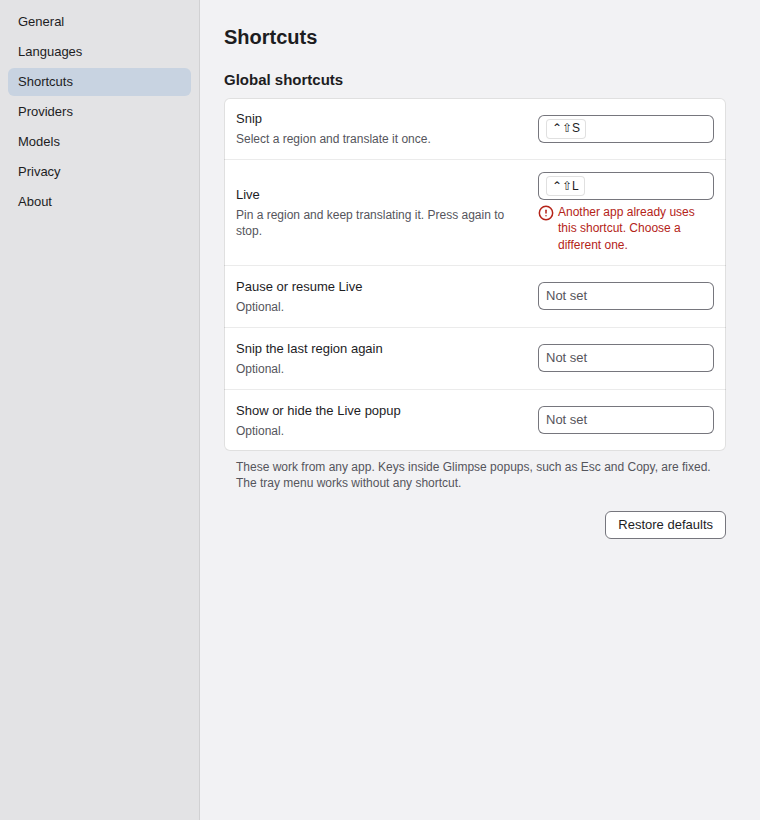
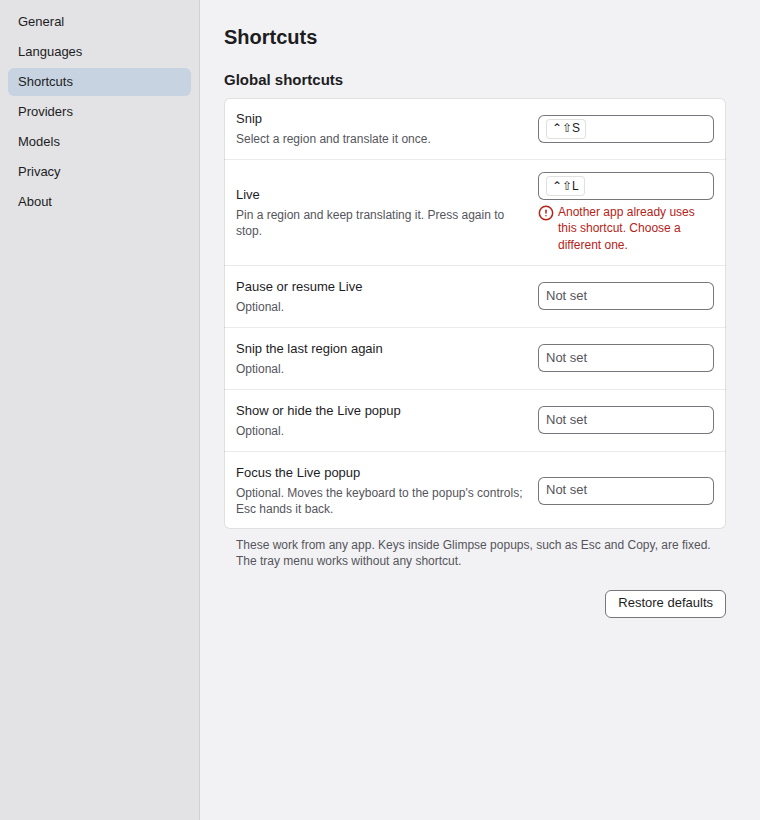
GLIM-130: optional global shortcuts for Live pause/resume, show/hide and focus popup
Adds the focusLivePopup binding (unbound by default, no migration: a new
field with a default) and wires pauseLive, toggleLivePopup and
focusLivePopup to the tray's live.* commands through liveHotkeyHandlers;
Settings > Shortcuts lists the new action.

Changed region(s): [[0.3026, 0.5488, 0.9382, 0.7012], [0.8171, 0.7317, 0.9382, 0.7622]]

diff --git a/app/test/live-hotkeys.test.ts b/app/test/live-hotkeys.test.ts
@@ -1,0 +1,67 @@
+// GLIM-130: optional global shortcuts for Live (pause / resume, show / hide the popup, focus
+// the popup). Unbound by default; once bound in Settings › Shortcuts they register through the
+// hotkey service and dispatch the same commands as the tray.
+import { describe, expect, test } from "bun:test";
+import { DEFAULT_HOTKEYS, type HotkeyBindings, nullLogger } from "@glimpse/core";
+import { type HotkeyBackend, HotkeyService } from "../src/bun/services/hotkeys.ts";
+import { HOTKEY_ACTIONS, liveHotkeyHandlers, ServiceHotkeyRegistrar } from "../src/bun/services/hotkeys-port.ts";
+
+describe("Live shortcuts (GLIM-130)", () => {
+	test("unbound by default on both OSes", () => {
+		for (const os of ["windows", "macos"] as const) {
+			const d = DEFAULT_HOTKEYS[os];
+			expect([d.pauseLive, d.toggleLivePopup, d.focusLivePopup]).toEqual([null, null, null]);
+		}
+		expect(HOTKEY_ACTIONS).toContain("focusLivePopup");
+	});
+
+	test("handlers dispatch the tray's commands; pause toggles; nothing while no area is pinned", () => {
+		const sent: string[] = [];
+		let state = { active: false, paused: false };
+		const h = liveHotkeyHandlers(
+			(c) => sent.push(c),
+			() => state,
+		);
+		h.pauseLive?.();
+		h.toggleLivePopup?.();
+		h.focusLivePopup?.();
+		expect(sent).toEqual([]);
+		state = { active: true, paused: false };
+		h.pauseLive?.();
+		state = { active: true, paused: true };
+		h.pauseLive?.();
+		h.toggleLivePopup?.();
+		h.focusLivePopup?.();
+		expect(sent).toEqual(["live.pause", "live.resume", "live.popup.toggle", "live.popup.focus"]);
+	});
+
+	test("a bound Live shortcut registers with the backend and reports ready", async () => {
+		const registered: string[] = [];
+		const backend: HotkeyBackend = {
+			name: "fake",
+			register: (combo) => {
+				registered.push(combo);
+				return { ok: true, detail: "ok" };
+			},
+			unregister: () => {},
+			dispose: () => {},
+		};
+		const service = new HotkeyService(backend, nullLogger);
+		const registrar = new ServiceHotkeyRegistrar(service, {
+			...liveHotkeyHandlers(
+				() => {},
+				() => ({ active: true, paused: false }),
+			),
+		});
+		const bindings: HotkeyBindings = {
+			...DEFAULT_HOTKEYS.windows,
+			snip: null,
+			live: null,
+			focusLivePopup: "Alt+Shift+F",
+		};
+		const status = await registrar.apply(bindings);
+		expect(status.focusLivePopup).toEqual({ state: "ready" });
+		expect(status.pauseLive).toEqual({ state: "unbound" });
+		expect(registered).toEqual(["Alt+Shift+F"]);
+	});
+});

diff --git a/app/src/bun/services/hotkeys-port.ts b/app/src/bun/services/hotkeys-port.ts
@@ -11,7 +11,14 @@ import type { HotkeyAction, HotkeyBindings } from "@glimpse/core";
 import type { HotkeyRegistration, HotkeyStatus } from "../../shared/settings-rpc.ts";
 import type { HotkeyService, HotkeyStatus as ServiceStatus } from "./hotkeys.ts";
 
-export const HOTKEY_ACTIONS: readonly HotkeyAction[] = ["snip", "live", "pauseLive", "resnip", "toggleLivePopup"];
+export const HOTKEY_ACTIONS: readonly HotkeyAction[] = [
+	"snip",
+	"live",
+	"pauseLive",
+	"resnip",
+	"toggleLivePopup",
+	"focusLivePopup",
+];
 
 export interface HotkeyRegistrar {
 	/** What the OS said about each action at the last `apply`. */
@@ -63,6 +70,7 @@ export function registrationStatus(
 		pauseLive: one("pauseLive"),
 		resnip: one("resnip"),
 		toggleLivePopup: one("toggleLivePopup"),
+		focusLivePopup: one("focusLivePopup"),
 	};
 }
 
@@ -75,7 +83,7 @@ export class ServiceHotkeyRegistrar implements HotkeyRegistrar {
 		private readonly handlers: HotkeyHandlers,
 	) {
 		this.#status = registrationStatus(
-			{ snip: null, live: null, pauseLive: null, resnip: null, toggleLivePopup: null },
+			{ snip: null, live: null, pauseLive: null, resnip: null, toggleLivePopup: null, focusLivePopup: null },
 			[],
 			handlers,
 		);
@@ -96,4 +104,23 @@ export class ServiceHotkeyRegistrar implements HotkeyRegistrar {
 		this.#listeners.add(listener);
 		return () => this.#listeners.delete(listener);
 	}
+}
+
+/**
+ * GLIM-130: handlers for the optional Live shortcuts (unbound by default; live-popup.md §6.3,
+ * GLIM-94 question 12). They go through the command bus like the tray: pause / resume toggles
+ * by the session's state, and every one does nothing while no area is pinned.
+ */
+export function liveHotkeyHandlers(
+	dispatch: (command: "live.pause" | "live.resume" | "live.popup.toggle" | "live.popup.focus") => void,
+	live: () => { readonly active: boolean; readonly paused: boolean },
+): Pick<HotkeyHandlers, "pauseLive" | "toggleLivePopup" | "focusLivePopup"> {
+	const whenActive = (run: () => void) => () => {
+		if (live().active) run();
+	};
+	return {
+		pauseLive: whenActive(() => dispatch(live().paused ? "live.resume" : "live.pause")),
+		toggleLivePopup: whenActive(() => dispatch("live.popup.toggle")),
+		focusLivePopup: whenActive(() => dispatch("live.popup.focus")),
+	};
 }

diff --git a/packages/core/src/settings/hotkeys.ts b/packages/core/src/settings/hotkeys.ts
@@ -116,21 +116,37 @@ export const hotkeySchema = (): Schema<Hotkey> =>
 		(s) => canonicalHotkey(s) ?? s,
 	);
 
-/** Global actions. Only Snip and Live are bound by default (GLIM-23). */
+/** Global actions. Only Snip and Live are bound by default (GLIM-23); the Live extras are optional (GLIM-130). */
 export interface HotkeyBindings {
 	readonly snip: Hotkey | null;
 	readonly live: Hotkey | null;
 	readonly pauseLive: Hotkey | null;
 	readonly resnip: Hotkey | null;
 	readonly toggleLivePopup: Hotkey | null;
+	/** GLIM-130: move keyboard focus to the Live popup (keyboard and screen-reader users). */
+	readonly focusLivePopup: Hotkey | null;
 }
 
 export type HotkeyAction = keyof HotkeyBindings;
 
 /** GLIM-23 defaults. Same letters on both OSes, least-conflicting modifiers per OS. */
 export const DEFAULT_HOTKEYS: { readonly windows: HotkeyBindings; readonly macos: HotkeyBindings } = {
-	windows: { snip: "Alt+Shift+S", live: "Alt+Shift+L", pauseLive: null, resnip: null, toggleLivePopup: null },
-	macos: { snip: "Ctrl+Shift+S", live: "Ctrl+Shift+L", pauseLive: null, resnip: null, toggleLivePopup: null },
+	windows: {
+		snip: "Alt+Shift+S",
+		live: "Alt+Shift+L",
+		pauseLive: null,
+		resnip: null,
+		toggleLivePopup: null,
+		focusLivePopup: null,
+	},
+	macos: {
+		snip: "Ctrl+Shift+S",
+		live: "Ctrl+Shift+L",
+		pauseLive: null,
+		resnip: null,
+		toggleLivePopup: null,
+		focusLivePopup: null,
+	},
 };
 
 /**
@@ -145,6 +161,7 @@ export function hotkeyBindingsSchema(defaults: HotkeyBindings): Schema<HotkeyBin
 		pauseLive: withDefault(nullable(hotkeySchema()), defaults.pauseLive),
 		resnip: withDefault(nullable(hotkeySchema()), defaults.resnip),
 		toggleLivePopup: withDefault(nullable(hotkeySchema()), defaults.toggleLivePopup),
+		focusLivePopup: withDefault(nullable(hotkeySchema()), defaults.focusLivePopup),
 	});
 	return {
 		parse(input, ctx) {

diff --git a/app/src/bun/index.ts b/app/src/bun/index.ts
@@ -30,7 +30,7 @@ import { buildDiagnostics } from "./services/diagnostics.ts";
 import { HotkeyService } from "./services/hotkeys.ts";
 import { CarbonHotkeyBackend } from "./services/hotkeys-carbon.ts";
 import { ElectrobunHotkeyBackend } from "./services/hotkeys-electrobun.ts";
-import { ServiceHotkeyRegistrar } from "./services/hotkeys-port.ts";
+import { liveHotkeyHandlers, ServiceHotkeyRegistrar } from "./services/hotkeys-port.ts";
 import { LiveService } from "./services/live/live-service.ts";
 import { PinnedFrame } from "./services/live/pinned-frame.ts";
 import { createAppLogger } from "./services/log.ts";
@@ -209,6 +209,11 @@ appSettings.subscribe((next, previous) => {
 const hotkeyRegistrar = new ServiceHotkeyRegistrar(hotkeys, {
 	snip: () => void commands.dispatch("snip.start", "hotkey"),
 	live: () => void commands.dispatch("live.start", "hotkey"),
+	// GLIM-130: optional, unbound by default (Settings › Shortcuts). `live` is declared below.
+	...liveHotkeyHandlers(
+		(command) => void commands.dispatch(command, "hotkey"),
+		() => ({ active: live.active, paused: live.status === "paused" || live.status === "error" }),
+	),
 });
 
 // Screen Recording permission (GLIM-45): macOS only. Snip and Live open the screen-access

diff --git a/packages/core/test/settings.test.ts b/packages/core/test/settings.test.ts
@@ -37,7 +37,14 @@ describe("settings defaults", () => {
 	test("first-run settings", () => {
 		expect(defaultSettings(env)).toEqual({
 			language: { target: languageCode("de"), sources: [] },
-			hotkeys: { snip: "Alt+Shift+S", live: "Alt+Shift+L", pauseLive: null, resnip: null, toggleLivePopup: null },
+			hotkeys: {
+				snip: "Alt+Shift+S",
+				live: "Alt+Shift+L",
+				pauseLive: null,
+				resnip: null,
+				toggleLivePopup: null,
+				focusLivePopup: null,
+			},
 			providers: { ocr: "paddleocr", translation: ["bergamot", "small100"], options: {} },
 			appearance: { theme: "system", motion: "system" },
 			snip: { copyAfterSnip: true, showOriginalUnder: false, alwaysShowLanguages: false },
@@ -126,6 +133,7 @@ describe("hotkeys", () => {
 			pauseLive: null,
 			resnip: "Ctrl+Alt+R",
 			toggleLivePopup: null,
+			focusLivePopup: null,
 		});
 		expect(issues.map((i) => i.path)).toEqual(["hotkeys.snip", "hotkeys.pauseLive"]);
 	});

diff --git a/app/src/views/settings/panes/ShortcutsPane.tsx b/app/src/views/settings/panes/ShortcutsPane.tsx
@@ -20,6 +20,11 @@ const ACTIONS: readonly { action: HotkeyAction; label: string; description: stri
 	{ action: "pauseLive", label: "Pause or resume Live", description: "Optional." },
 	{ action: "resnip", label: "Snip the last region again", description: "Optional." },
 	{ action: "toggleLivePopup", label: "Show or hide the Live popup", description: "Optional." },
+	{
+		action: "focusLivePopup",
+		label: "Focus the Live popup",
+		description: "Optional. Moves the keyboard to the popup's controls; Esc hands it back.",
+	},
 ];
 
 const labelOf = (a: HotkeyAction) => ACTIONS.find((x) => x.action === a)?.label ?? a;

diff --git a/app/test/picker-controller.test.ts b/app/test/picker-controller.test.ts
@@ -331,7 +331,14 @@ describe("HotkeyService", () => {
 			this.disposed = true;
 		}
 	}
-	const bindings = { snip: "Alt+Shift+S", live: "Alt+Shift+L", pauseLive: null, resnip: null, toggleLivePopup: null };
+	const bindings = {
+		snip: "Alt+Shift+S",
+		live: "Alt+Shift+L",
+		pauseLive: null,
+		resnip: null,
+		toggleLivePopup: null,
+		focusLivePopup: null,
+	};
 
 	test("registers bound actions, reports conflicts without rebinding, fires handlers", () => {
 		const backend = new FakeBackend();

diff --git a/app/src/views/settings-preview/fake-client.ts b/app/src/views/settings-preview/fake-client.ts
@@ -79,6 +79,7 @@ export function fakeSettingsClient(opts: PreviewOptions): SettingsClient {
 			pauseLive: one("pauseLive"),
 			resnip: one("resnip"),
 			toggleLivePopup: one("toggleLivePopup"),
+			focusLivePopup: one("focusLivePopup"),
 		};
 	};
 	let hotkeys = statusFor(settings.hotkeys);

diff --git a/app/src/views/onboarding-preview/fake-client.ts b/app/src/views/onboarding-preview/fake-client.ts
@@ -131,6 +131,7 @@ export function fakeOnboardingClient(opts: PreviewOptions): OnboardingClient {
 		pauseLive: { state: "unbound" },
 		resnip: { state: "unbound" },
 		toggleLivePopup: { state: "unbound" },
+		focusLivePopup: { state: "unbound" },
 	});
 
 	const setup = (): SetupState => ({

diff --git a/app/src/bun/windows/settings-handlers.ts b/app/src/bun/windows/settings-handlers.ts
@@ -74,6 +74,7 @@ const ACTION_NAMES: Record<HotkeyAction, string> = {
 	pauseLive: "Pause or resume Live",
 	resnip: "Snip the last region again",
 	toggleLivePopup: "Show or hide the Live popup",
+	focusLivePopup: "Focus the Live popup",
 };
 
 const MODEL_ID = /^[a-z0-9][a-z0-9.-]{0,127}$/;

diff --git a/ARCHITECTURE.md b/ARCHITECTURE.md
@@ -175,7 +175,7 @@ Don't create packages for grouping alone; use folders.
 | Live feature (pin a region, `live.*` commands, tray Live state, session events) | `app/src/bun/services/live/live-service.ts` (`LiveService`) + `app/src/shared/live-rpc.ts` (`LiveRPC` for GLIM-79) | GLIM-59. `picker.onRegionSelected` (Live mode) → `live.start(rect)`: opens a capture session, `translation.openLive()`, the core `LiveRunner` and a `PinnedFrame`; re-pinning replaces the session. The Live hotkey stops a pinned session (live-popup.md §6.3). `pause(reason)` / `resume(reason?)` and the screen lock and sleep pause it through `PresenceTracker` (below); an automatic resume never undoes a user pause. Settings › Live and language / provider changes apply to the running session (`applySettings`). Emits `LiveSessionEvent`s through `onEvent` for the popup, mirrors the state to the tray, logs types / counts / timings only. No electrobun import: tested on Linux. |
 | Docked Live popup | `packages/core/src/popup/live-layout.ts` (`placeLivePopup`, `livePopupFrame`, `stripLayout`, `staleAge`, `announcementText`) + `live-state.ts` (`reduceLivePopup`, the 600 ms hold, change marks) + `app/src/bun/windows/live-popup-controller.ts` (pure) + `windows/live-popup.ts` (Electrobun) + `app/src/views/live/` + `app/src/shared/live-rpc.ts` | GLIM-79/81/82/92. One pre-created hidden window; `LiveService` events fold into a `LivePopupState` in main, pushed whole and reconciled by block id in the view (solid-js/store `reconcile`), so unchanged blocks keep their DOM nodes. Shown inactive: macOS re-classes it to a non-activating `NSPanel` (`glim_window_configure` role 1, `acceptsFirstMouse`), Windows `WS_EX_NOACTIVATE | WS_EX_TOOLWINDOW` + `showInactive`. Cloud consent (L10) runs in `LiveService` before any capture (`liveCloudConsent`; "Use on-device" = `localOnly` runs). `bun app/scripts/live-shots.ts --shots docs/design/screens/live-popup` regenerates the screenshots; `harness live-session` prints the popup state sequence. |
 | Screen lock / sleep events | `app/src/bun/services/session/system-session.ts` (`SystemSession`: typed `SystemSessionEvent`s) + `session/presence.ts` (`PresenceTracker`, pure) + `native/session.ts` (binding interface) + `app/native/macos/session.m`, `app/native/windows/session.cpp` | GLIM-119. Electrobun has no power or session events. macOS: `com.apple.screenIsLocked` / `screenIsUnlocked` (distributed), NSWorkspace session resign / become active, will sleep / did wake, screens did sleep / wake, observed on the main run loop. Windows: a hidden top-level window on its own helper thread (power broadcasts skip message-only windows): `WTSRegisterSessionNotification`, `WM_POWERBROADCAST` (+ `RegisterSuspendResumeNotification`). Both call a threadsafe `JSCallback`. `PresenceTracker` folds the overlapping notifications into locked / asleep flags: pause Live at once with the first reason, resume 1 s after both clear (a lock right after a wake cancels it). `glim_session_simulate` lets `native-smoke.ts` check the delivery path on CI. |
-| Hotkeys | `app/src/bun/services/hotkeys.ts` (service, pure) + `hotkeys-electrobun.ts` / `hotkeys-carbon.ts` (backends) + `hotkey-keys.ts` (accelerator / Carbon key-code mapping) | Electrobun `GlobalShortcut` on Windows, Carbon `RegisterEventHotKey` in libglimpse.dylib on macOS (GLIM-23, GLIM-44, spikes/hotkeys). A taken combo is reported as `conflict`, never rebound. Settings reaches it through the `HotkeyRegistrar` port (`services/hotkeys-port.ts`, `ServiceHotkeyRegistrar`). |
+| Hotkeys | `app/src/bun/services/hotkeys.ts` (service, pure) + `hotkeys-electrobun.ts` / `hotkeys-carbon.ts` (backends) + `hotkey-keys.ts` (accelerator / Carbon key-code mapping) | Electrobun `GlobalShortcut` on Windows, Carbon `RegisterEventHotKey` in libglimpse.dylib on macOS (GLIM-23, GLIM-44, spikes/hotkeys). A taken combo is reported as `conflict`, never rebound. Settings reaches it through the `HotkeyRegistrar` port (`services/hotkeys-port.ts`, `ServiceHotkeyRegistrar`). Optional Live shortcuts, unbound by default (GLIM-130): `pauseLive`, `toggleLivePopup`, `focusLivePopup` → `liveHotkeyHandlers` → the tray's `live.*` commands. |
 | Region picker window controller | `app/src/bun/windows/picker-controller.ts` (pure: overlays per display, session, ticks, `RegionSelected`) + `windows/picker.ts` (Electrobun overlays) + `app/src/views/picker/` | GLIM-44. `snip.start` / `live.start` call `picker.toggle(mode)`; Snip (GLIM-65) and Live (GLIM-59) subscribe with `picker.onRegionSelected` (return `"keep"` to keep the results layer; the popup sends its detection boxes there with `showResults`, GLIM-115). The harness drives it headless (`bun run harness pick`); `bun app/scripts/picker-preview.ts` renders the real view in a browser. |
 | App commands (Start Snip, Start/Stop Live, Private, Clear cache, Settings, Quit...) | `app/src/bun/commands.ts` (`CommandBus`) | GLIM-41. Tray, hotkeys, popups and Settings dispatch; the owning feature registers the one handler. |
 | Tray / menu bar | `app/src/bun/tray-menu.ts` (pure: state -> menu + icon, `TrayController`) + `tray.ts` (Electrobun) | GLIM-41. Rebuilt only when the rendered menu changes. Windows icon follows the taskbar theme (`services/taskbar-theme.ts`). |
